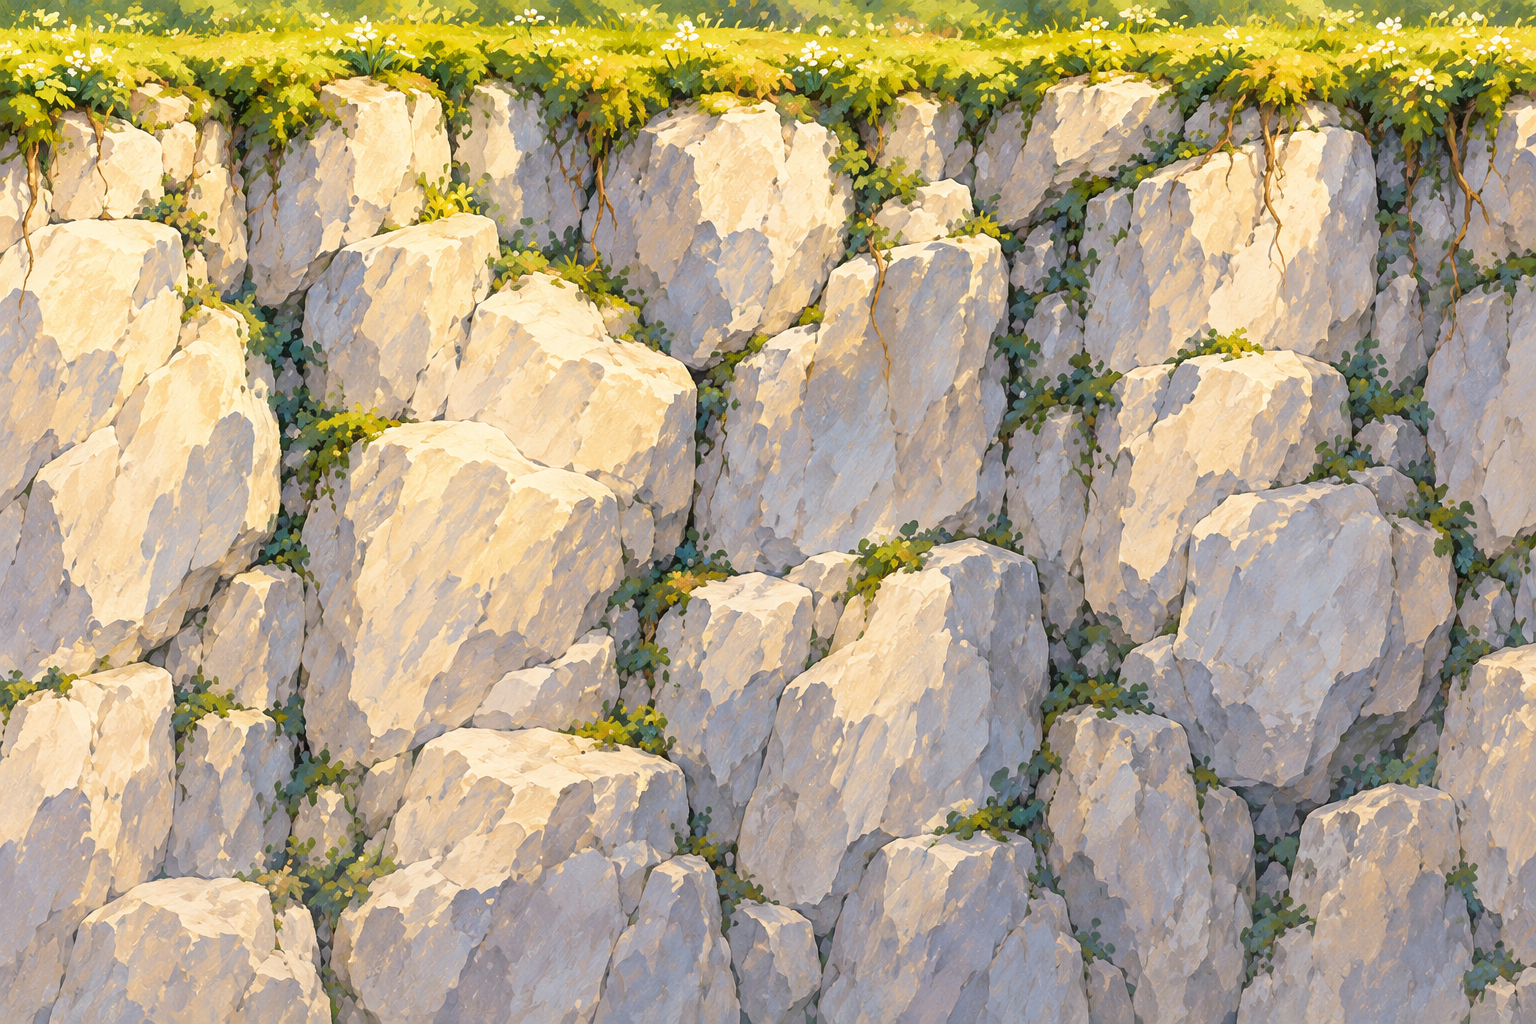
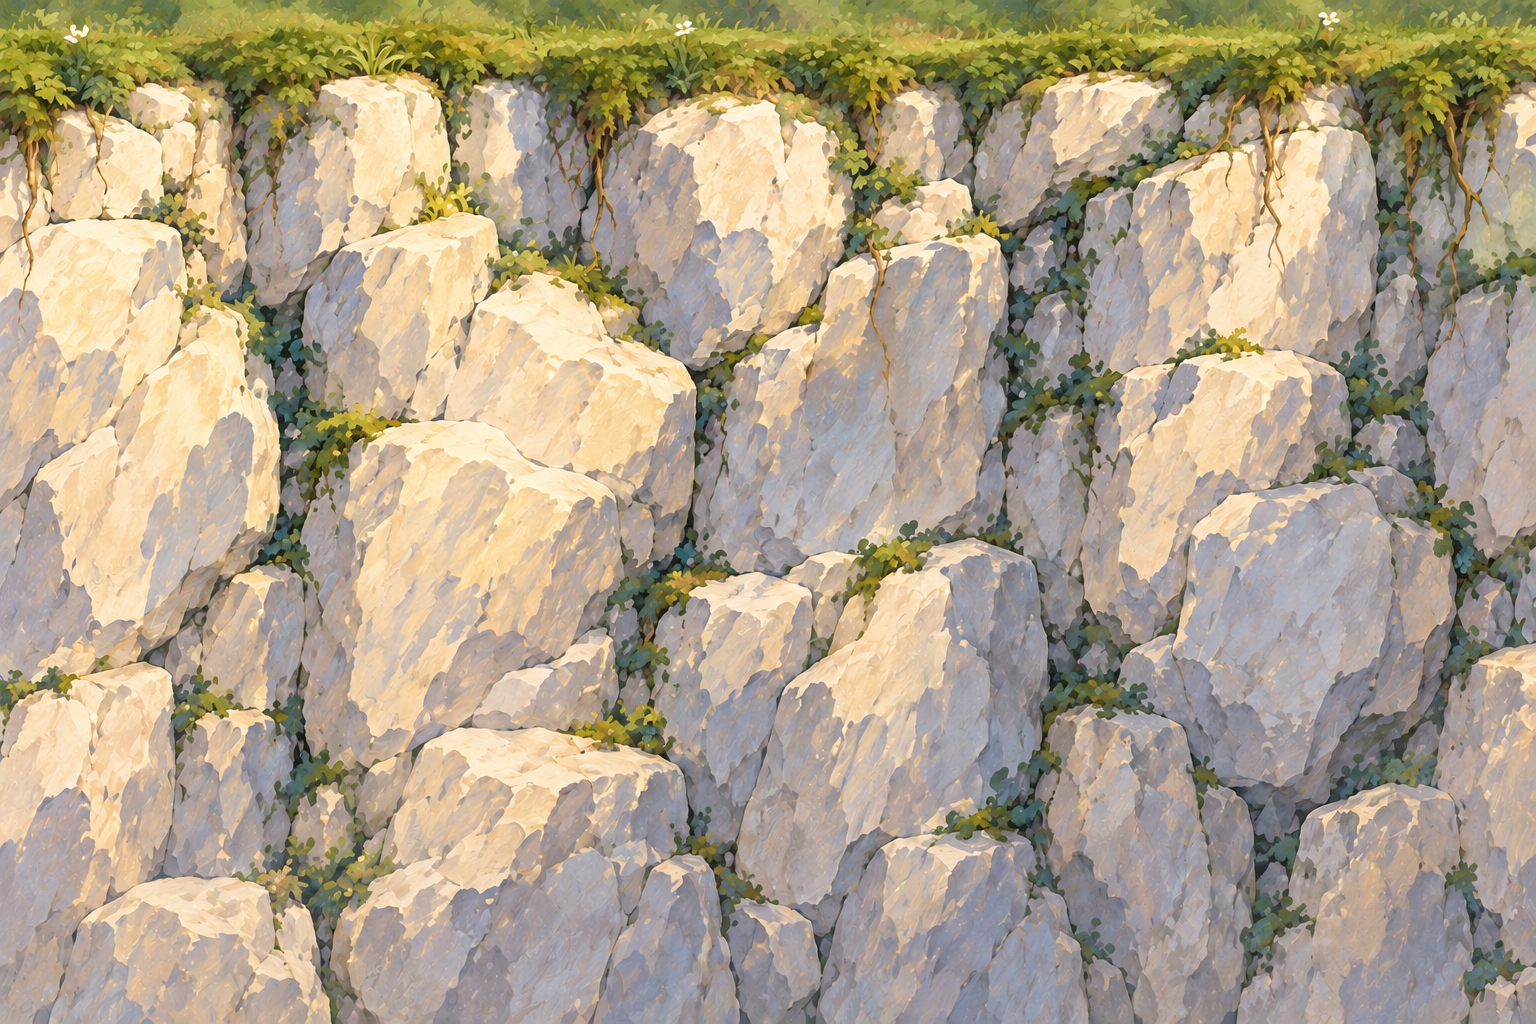
Refine painted turf scale and bounded terrain contours

diff --git a/docs/quality/asset_generation_notes.md b/docs/quality/asset_generation_notes.md
@@ -24,3 +24,7 @@ This generates a shared material source, not 47 independent finished tiles. The 
 - border: exec-f963c8df-86bd-4831-be98-1ae23ed92aa8.png → assets/plains_v8/painted_limestone_border.png。以上一张为参考，提示：one broad rectangular floating platform border master, front orthographic, same gouache palette; approximately bounds x32–1504/y32–992, thin lively grass crest and sparse petals, softly rolled turf upper corners, small chiseled vertical edges, bottom chips/roots and bevelled corners, no large stalactites, transparent outside, no halo/shadow/text/grid. Actual alpha checked: 306372 zero-alpha pixels, 56275 in1–200, 1210217 in201–254, zero fully opaque; never assume requested transparency is proven by preview background. Runtime alpha gates edge pigment; silhouette is still exact geometry with bounded corner rounding, not the whole slab sprite stretched to fit.
 
 These are one proposed palette/edge sample, not approved expansion. Whole sprite may look better than the sliced in-game result; actual gallery and region screenshots must be reviewed separately. Mixed materials, custom thin-platform silhouettes, inner-corner brushwork and long-range repetition remain visual review concerns.
+
+### candidate-v5 refinement
+
+Independent actual-screen review rejected uniform bright flowers and rigid clipping in v4. Imagegen edit of the material (output exec-50bb7b09-d994-42a7-8d2b-69071f3d3d21) requested preserving limestone/brushwork, removing95%flowers, quiet sage moss with a few straw-green tips, thinner grass belt, no noise or new scenery. Copied unchanged. Shader fits turf depth to actual local thickness and uses the painted border alpha within at most1.75 world units inward (and1/8 local thickness), without new collision or outward false landing. This is another candidate; user/device acceptance remains unverified.
